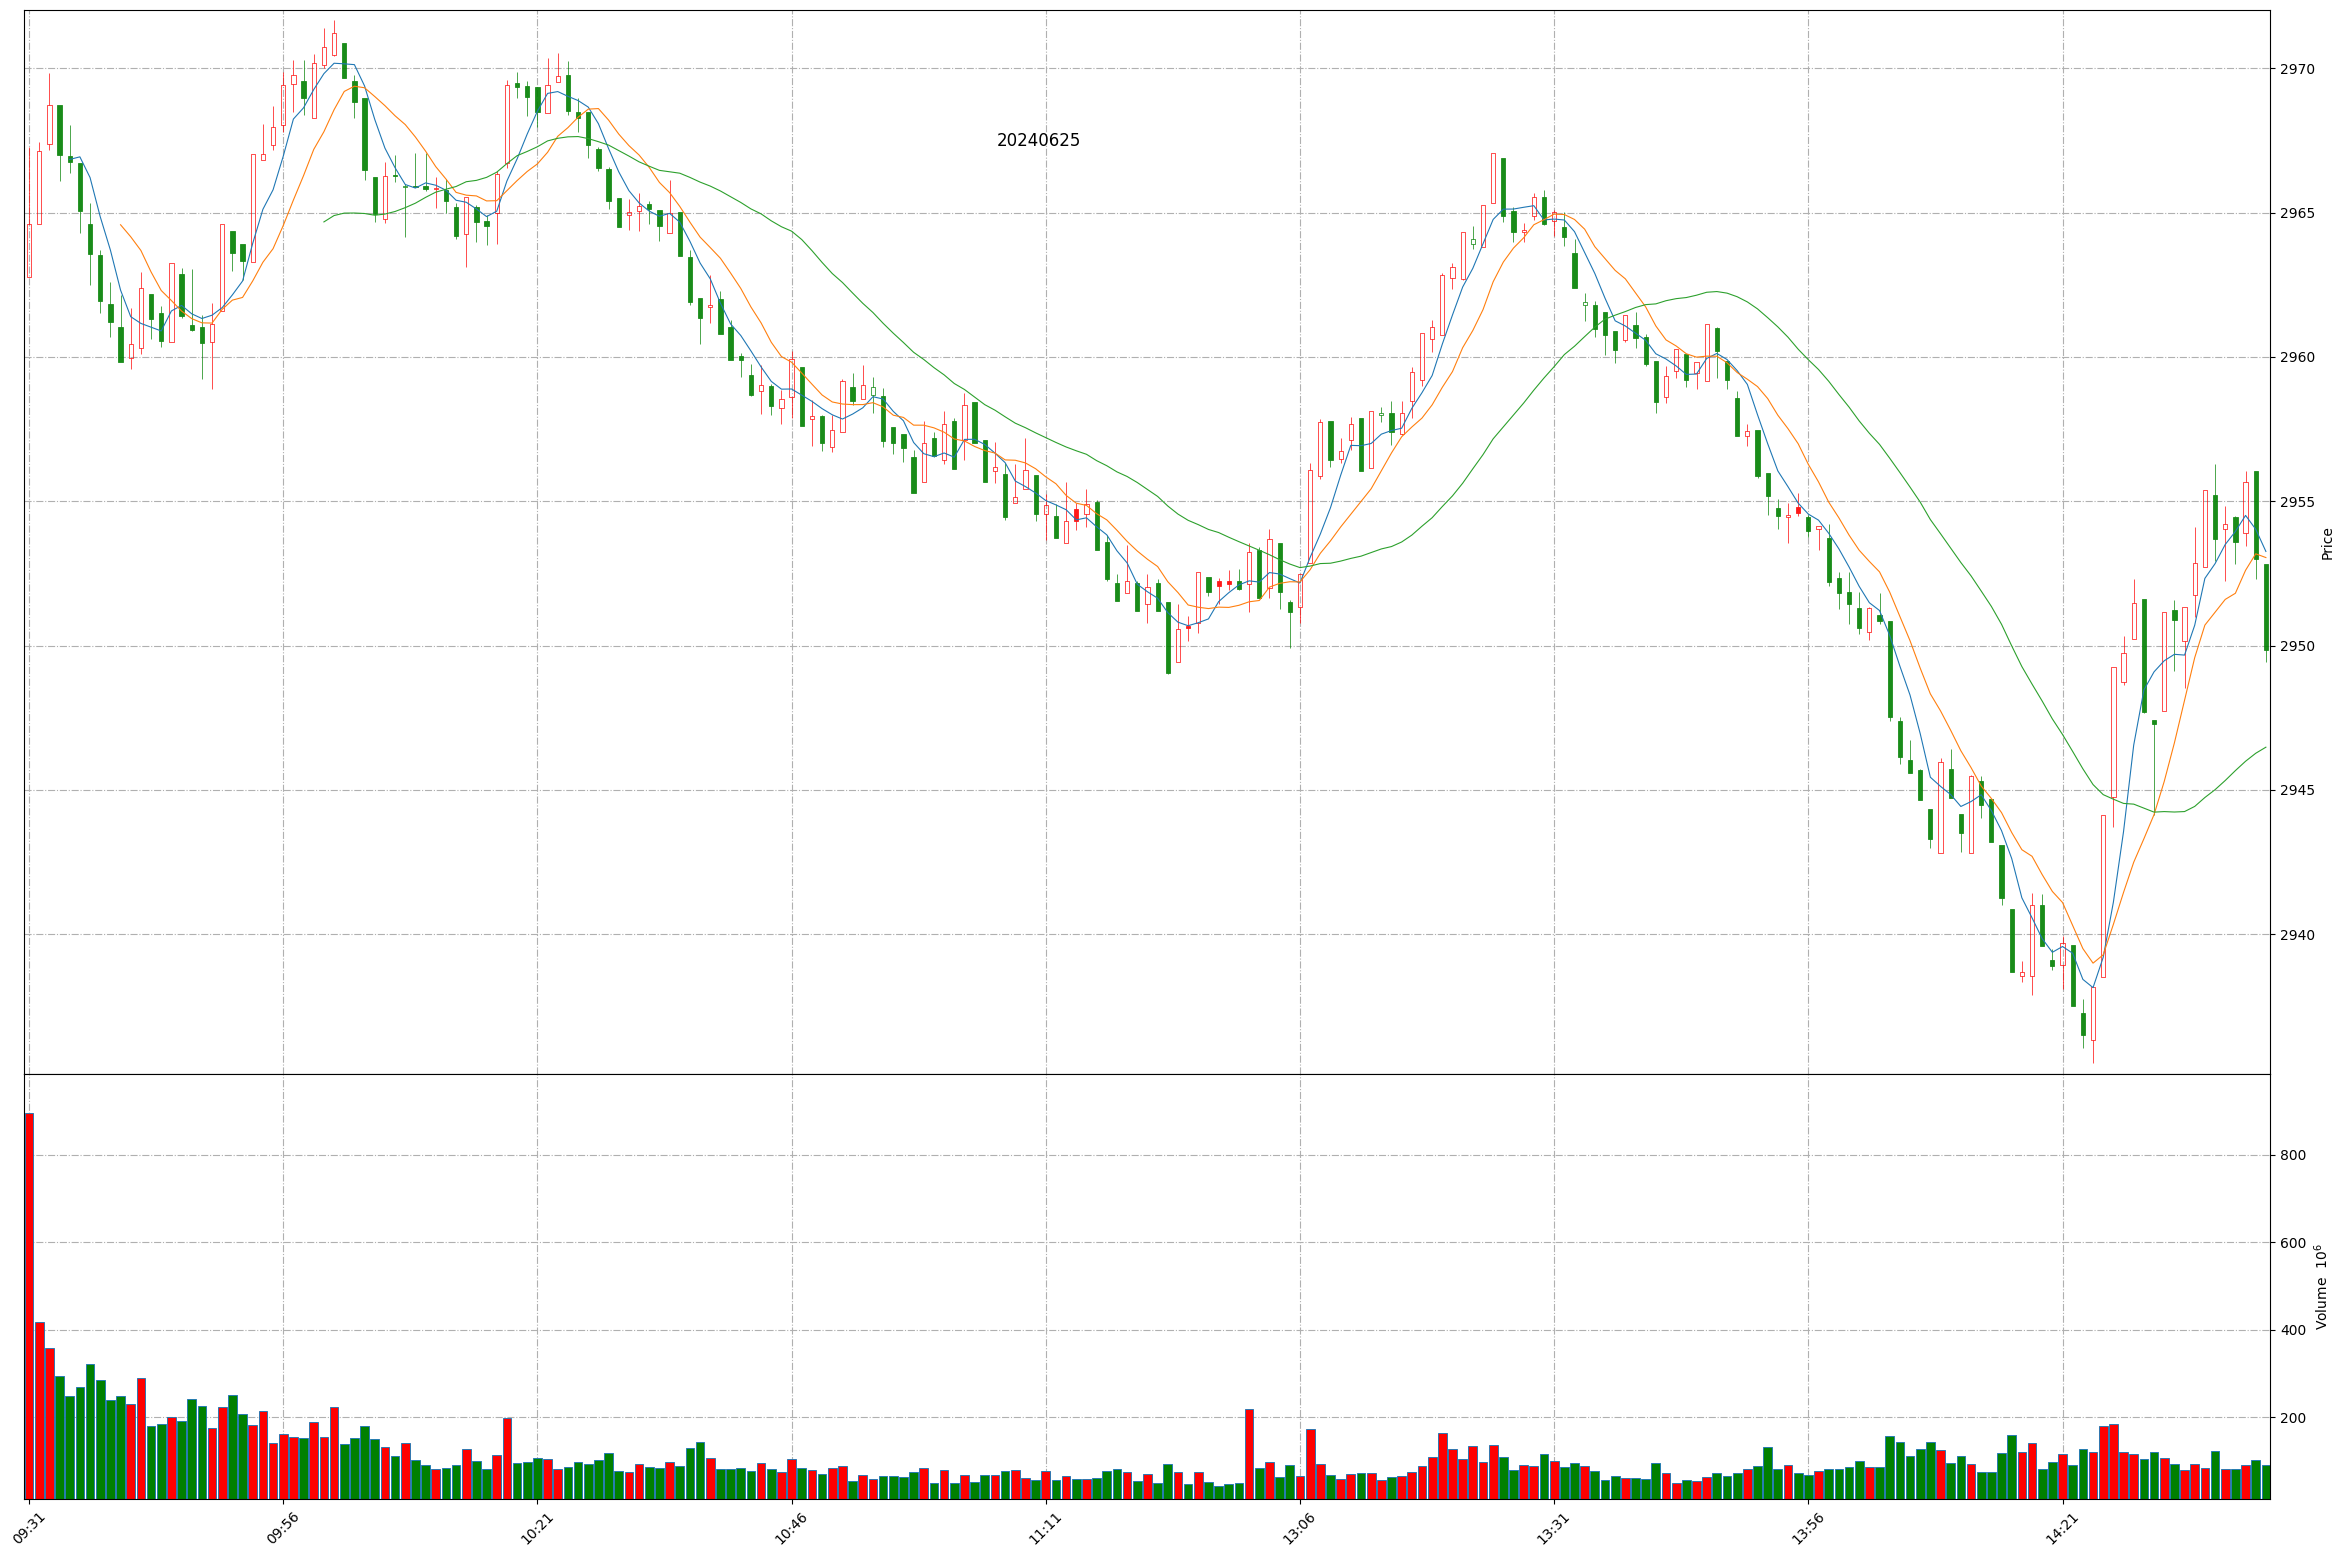
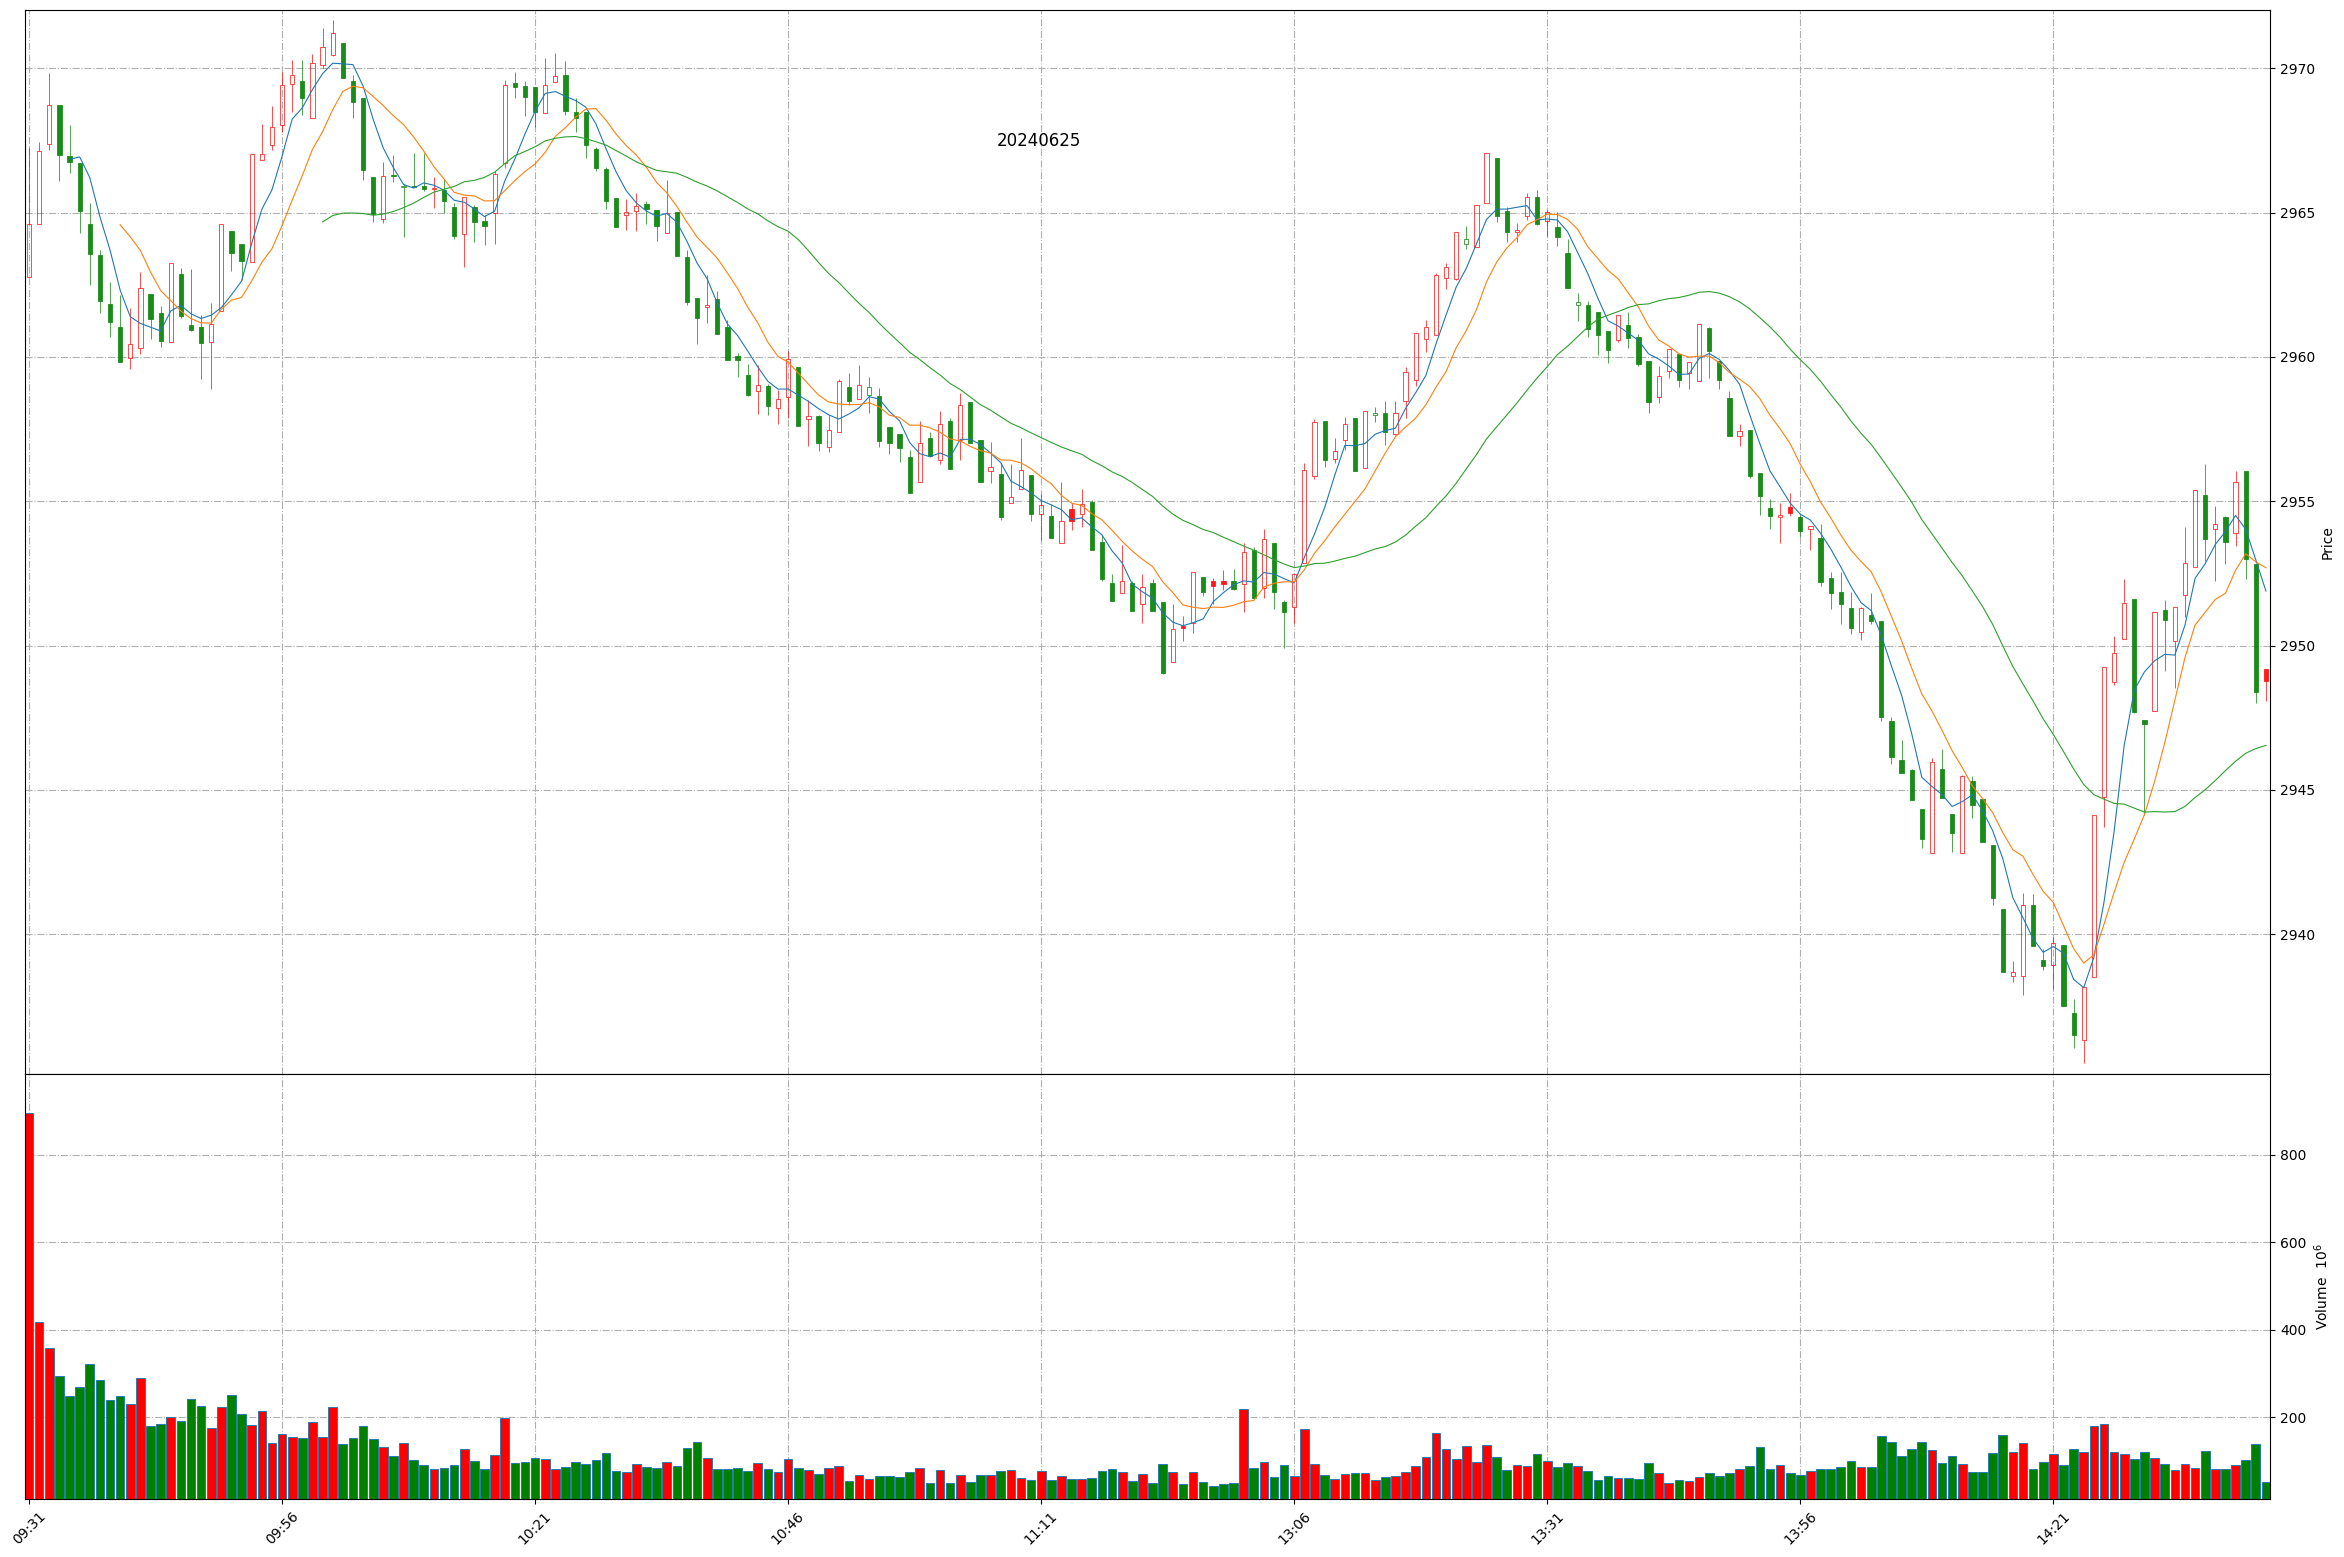
Github action update at 2024-06-25 14:42:02.

diff --git a/README.md b/README.md
@@ -1,11 +1,11 @@
 
 # Daily-A-share-market-quotes 每日 A 股指数（5min 更新）- 20240625
 
-### 上证指数 20240625 14:40
+### 上证指数 20240625 14:42
 ![](./fig/2024/6/20240625-sh000001.png)
 
-### 深证成指 20240625 14:40
+### 深证成指 20240625 14:42
 ![](./fig/2024/6/20240625-sz399001.png)
 
-### 北证50 20240625 14:40
+### 北证50 20240625 14:42
 ![](./fig/2024/6/20240625-bj899050.png)
